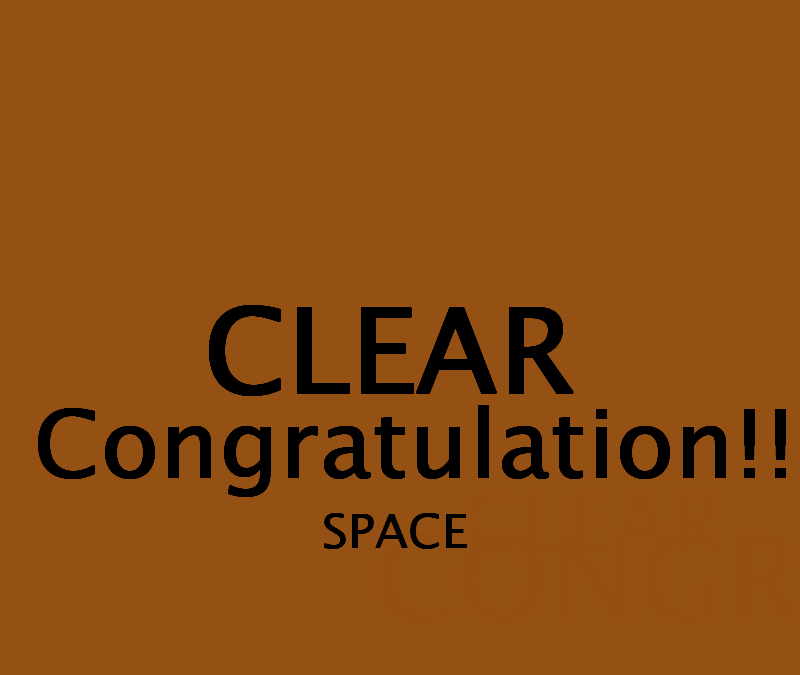
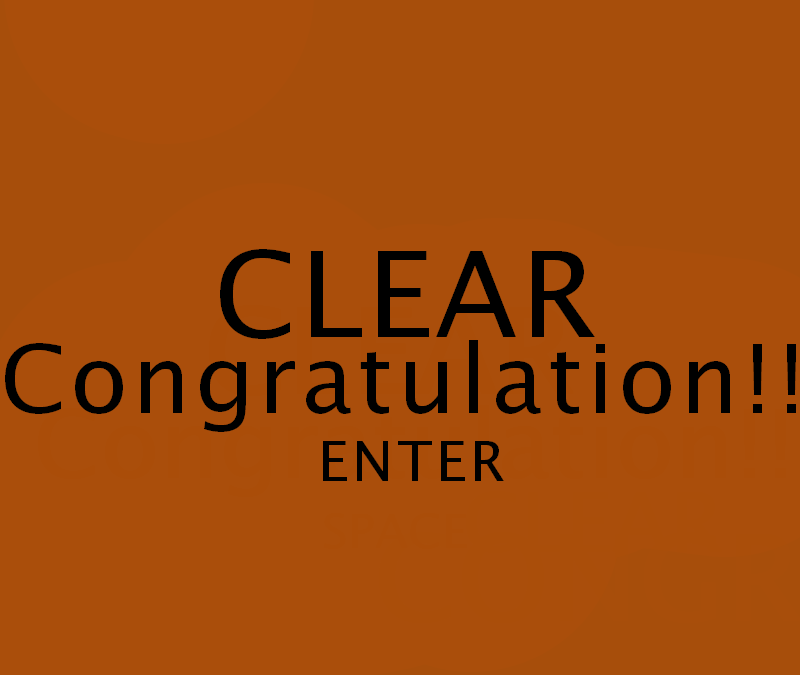
AL

Changed region(s): [[0.0, 0.3422, 1.0, 0.7467], [0.4062, 0.7467, 0.5938, 0.8089]]

diff --git a/GAME2/main.cpp b/GAME2/main.cpp
@@ -19,9 +19,8 @@ int date[MAPY][MAPX]
 	1,1,1,1,1,1,1,1,1,1,1,1,1,1,1,1,1,1,1,1,1,1,1,1,1,
 	1,0,0,0,0,0,0,0,0,0,0,0,0,0,0,0,0,0,0,0,0,0,0,0,1,
 	1,0,0,0,0,0,0,0,0,0,0,0,0,0,0,0,0,0,0,0,0,0,0,0,1,
-	1,0,0,0,0,0,0,0,0,0,0,0,0,0,0,0,0,0,0,0,0,0,0,0,1,
+	1,0,2,0,3,0,4,5,0,0,0,0,0,0,0,0,0,0,0,0,0,0,0,0,1,
 	1,1,1,1,1,1,1,1,1,1,1,1,1,1,1,1,1,1,1,1,1,1,1,1,1,
-	
 
 };
 //ブロックサイズ
@@ -50,7 +49,12 @@ enum BLOCK
 {
 
 	NOME,
-	block
+	block,
+	block2,
+	block3,
+	block4,
+	block5
+	
    
 };
 
@@ -58,6 +62,8 @@ enum  Book
 {
 	None,
 	book1
+
+
 };
 
 // Windowsアプリでのエントリーポイント(main関数)
@@ -96,6 +102,7 @@ int WINAPI WinMain(HINSTANCE, HINSTANCE, LPSTR, int) {
 	player.radius = { 10,40 };
 	player.speed = { 25,25 };
 	
+	block2;
 
 	book Book;
 	Book.position = { 150,287 };
@@ -151,6 +158,12 @@ int WINAPI WinMain(HINSTANCE, HINSTANCE, LPSTR, int) {
 	int explanation = Novice::LoadTexture("./explanation.png");
 	int start = Novice::LoadTexture("./start.png");
 
+	int Book1 = Novice::LoadTexture("./GJ3_Book1_1.png");
+	int BOOK2 = Novice::LoadTexture("./GJ3_Book1_2.png");
+	int BOOK3 = Novice::LoadTexture("./GJ3_Book1_3.png");
+	int BOOK4 = Novice::LoadTexture("./GJ3_Book1_4.png");
+	int BOOK5 = Novice::LoadTexture("./GJ3_Book1_5.png");
+
 
 
 
@@ -180,6 +193,7 @@ int WINAPI WinMain(HINSTANCE, HINSTANCE, LPSTR, int) {
 				scene = 1;
 
 			}
+
 			break;
 
 		case 1:
@@ -232,6 +246,8 @@ int WINAPI WinMain(HINSTANCE, HINSTANCE, LPSTR, int) {
 				}
 
 			}
+
+
 			if (flag == true)
 			{
 
@@ -282,6 +298,7 @@ int WINAPI WinMain(HINSTANCE, HINSTANCE, LPSTR, int) {
 
 			if (Book2.flag == true)
 			{
+
 				player.position.x = Book2.position.x - 5;
 				player.position.y = Book2.position.y - 5;
 
@@ -313,12 +330,14 @@ int WINAPI WinMain(HINSTANCE, HINSTANCE, LPSTR, int) {
 
 			}
 
+
 			if (keys[DIK_A] == preKeys[DIK_A] == 0)
 			{
 
 				Book2.flag = false;
 
 			}
+
 
 
 			//Book3
@@ -334,6 +353,7 @@ int WINAPI WinMain(HINSTANCE, HINSTANCE, LPSTR, int) {
 
 			}
 
+
 			if (Book3.flag == true)
 			{
 
@@ -345,17 +365,21 @@ int WINAPI WinMain(HINSTANCE, HINSTANCE, LPSTR, int) {
 				{
 					Book3.position.x -= player.speed.x;
 				}
+
 				if (keys[DIK_RIGHT] && preKeys[DIK_RIGHT] == 0)
 				{
 					Book3.position.x += player.speed.x;
 				}
+
 				if (keys[DIK_UP] && preKeys[DIK_UP] == 0)
 				{
 					Book3.position.y -= player.speed.y;
 				}
+
 				if (keys[DIK_DOWN] && preKeys[DIK_DOWN] == 0)
 				{
 					Book3.position.y += player.speed.y;
+
 				}
 
 
@@ -371,7 +395,6 @@ int WINAPI WinMain(HINSTANCE, HINSTANCE, LPSTR, int) {
 
 			if (keys[DIK_S] == preKeys[DIK_S] == 0)
 			{
-
 
 				if (Book.position.x == Book3.position.x && Book.position.x == Book3.position.y)
 				{
@@ -402,7 +425,7 @@ int WINAPI WinMain(HINSTANCE, HINSTANCE, LPSTR, int) {
 						Book.position.y += player.speed.y;
 
 					}
-
+					
 				}
 
 				if (Book2.position.x == Book3.position.x && Book2.position.x == Book3.position.y)
@@ -419,8 +442,8 @@ int WINAPI WinMain(HINSTANCE, HINSTANCE, LPSTR, int) {
 					{
 
 						Book2.position.x += player.speed.x;
-
 					}
+
 					if (keys[DIK_UP] && preKeys[DIK_UP] == 0)
 					{
 
@@ -438,12 +461,10 @@ int WINAPI WinMain(HINSTANCE, HINSTANCE, LPSTR, int) {
 
 			}
 
-
 			//Book4
 
 
 			//Book5
-
 
 			timer++;
 			if (timer >= 60)
@@ -464,10 +485,10 @@ int WINAPI WinMain(HINSTANCE, HINSTANCE, LPSTR, int) {
 
 
 
-			if (timer >= 6000)
-			{
-				scene == 3;
 
+			if (keys[DIK_RETURN] && preKeys[DIK_RETURN] == 0)
+			{
+				scene = 3;
 			}
 
 			break;
@@ -477,8 +498,9 @@ int WINAPI WinMain(HINSTANCE, HINSTANCE, LPSTR, int) {
 
 			if (keys[DIK_RETURN] && preKeys[DIK_RETURN] == 0)
 			{
-				scene = 3;
+				scene = 4;
 			}
+
 			break;
 
 
@@ -487,11 +509,12 @@ int WINAPI WinMain(HINSTANCE, HINSTANCE, LPSTR, int) {
 
 			if (keys[DIK_RETURN] && preKeys[DIK_RETURN] == 0)
 			{
-				scene = 4;
+				scene = 0;
 			}
 
 
 			break;
+
 		}
 		
 
@@ -515,13 +538,17 @@ int WINAPI WinMain(HINSTANCE, HINSTANCE, LPSTR, int) {
 
 		if (scene == 0)
 		{
+
+
 			Novice::DrawSprite(0, 0, start, 1, 1, 0.0f, WHITE);
 
 		}
 
 		else if (scene == 1)
 		{
+
 			Novice::DrawSprite(0, 0, explanation, 1, 1, 0.0f, WHITE);
+		
 		}
 
 
@@ -553,10 +580,27 @@ int WINAPI WinMain(HINSTANCE, HINSTANCE, LPSTR, int) {
 
 				}
 			}
+			for (int i = 0; i < MAPX; i++)
+			{
+				for (int j = 0; j < MAPY; j++)
+				{
+
+					if (date[j][i] == block2)
+					{
+
+						Novice::DrawSprite()
+
+					}
+
+				}
+			}
+
 			Novice::DrawSprite(player.position.x, player.position.y, grahHandle, 1, 1, 0.0f, WHITE);
-			Novice::DrawBox(Book.position.x, Book.position.y, Book.radius.x, Book.radius.y, 0.0f, WHITE, kFillModeSolid);
-			Novice::DrawBox(Book2.position.x, Book2.position.y, Book2.radius.x, Book2.radius.y, 0.0f, BLACK, kFillModeSolid);
-			Novice::DrawBox(Book3.position.x, Book3.position.y, Book3.radius.x, Book3.radius.y, 0.0f, RED, kFillModeSolid);
+			Novice::DrawSprite(Book.position.x, Book.position.y, Book1, 1,1, 0.0f, WHITE);
+			Novice::DrawSprite(Book2.position.x, Book2.position.y, BOOK2,1,1, 0.0f, WHITE);
+			Novice::DrawSprite(Book3.position.x, Book3.position.y, BOOK3,1,1, 0.0f, WHITE);
+			Novice::DrawSprite(Book4.position.x, Book4.position.y, BOOK4, 1, 1, 0.0f, WHITE);
+			Novice::DrawSprite(Book5.position.x, Book5.position.y, BOOK5, 1, 1, 0.0f, WHITE);
 
 
 			timer++;
